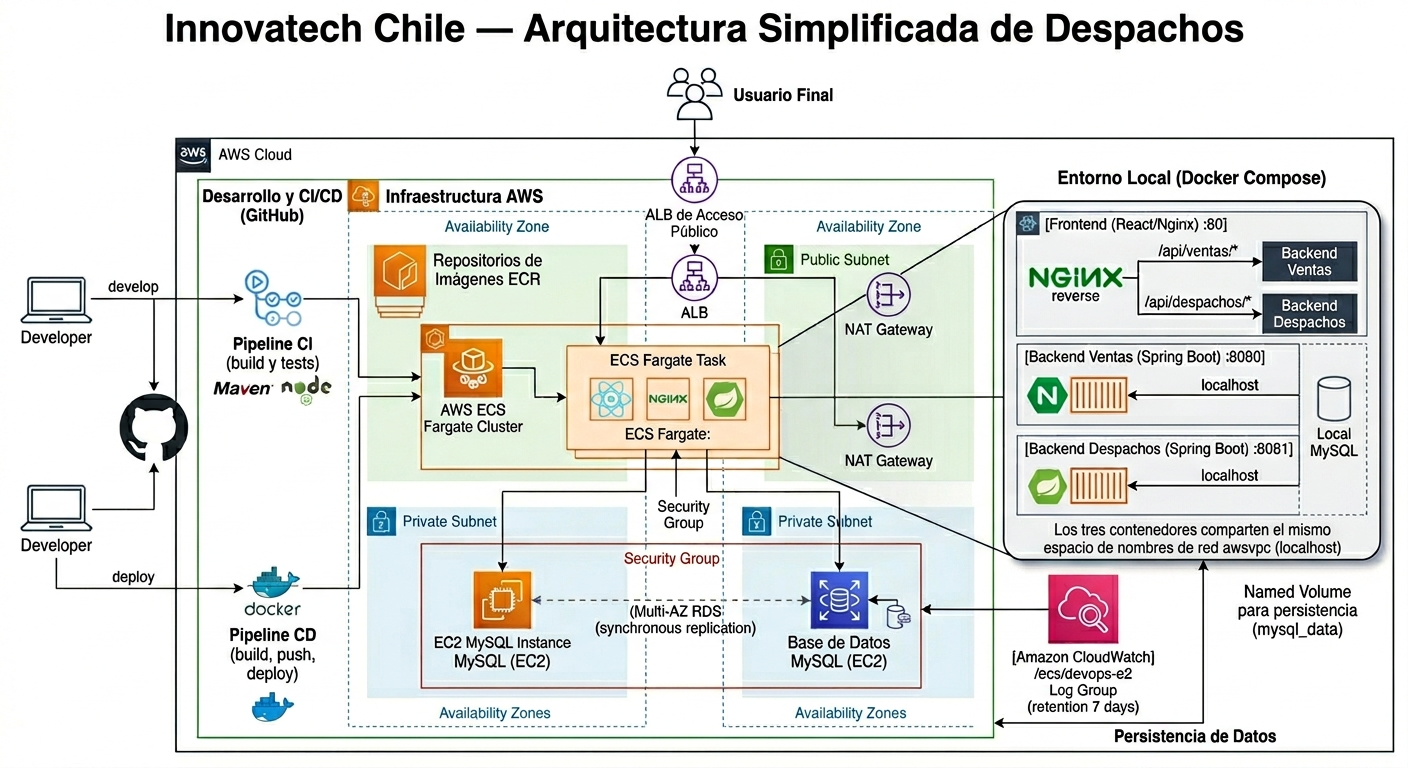
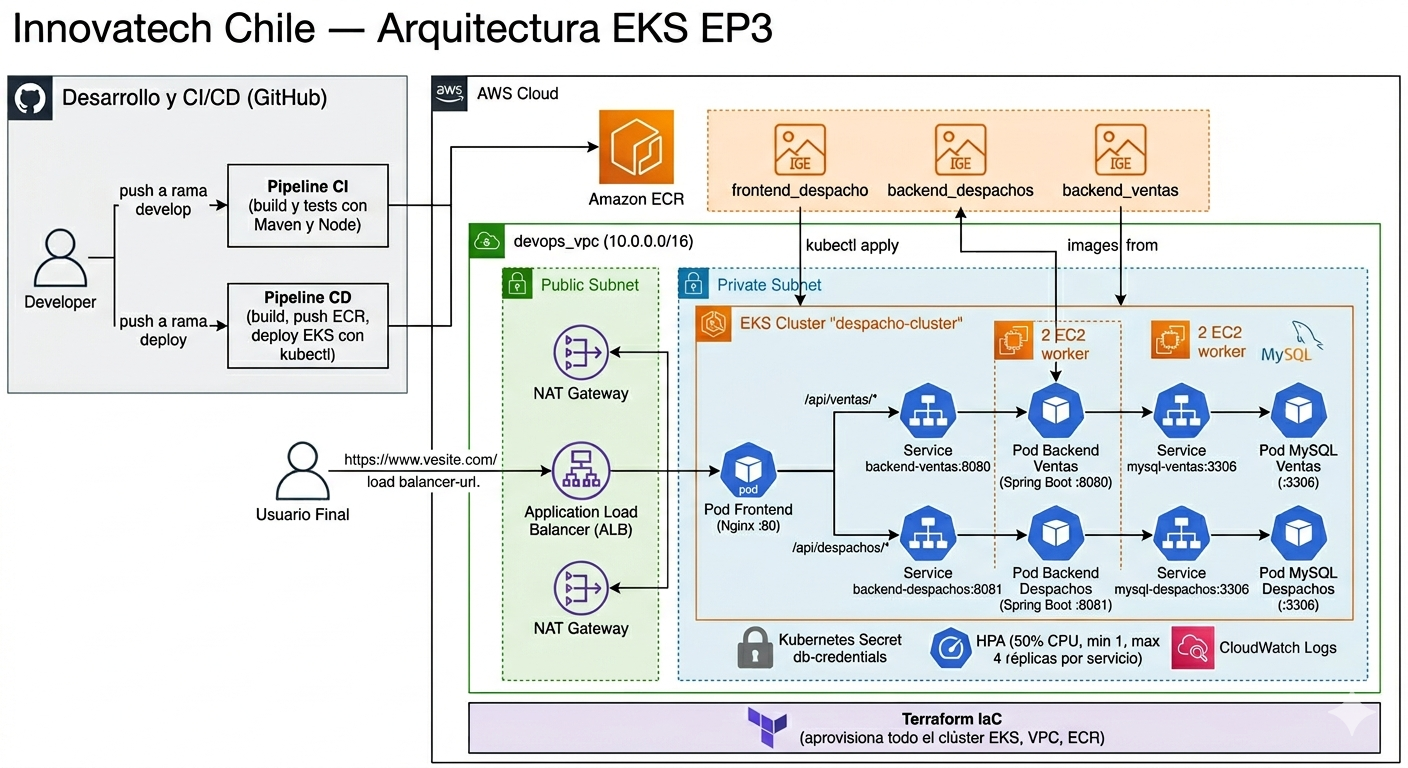
se pulen detalles

diff --git a/README.md b/README.md
@@ -11,7 +11,7 @@
 | Frontend | React + Vite + Tailwind CSS + Nginx |
 | Backend Ventas | Spring Boot 3 + Java 17 + JPA/Hibernate + Actuator |
 | Backend Despachos | Spring Boot 3 + Java 17 + JPA/Hibernate + Actuator |
-| Base de datos | MySQL 8 (EC2 en subred privada) |
+| Base de datos | MySQL 8 (Pod dentro del clúster EKS) |
 | Contenedorización | Docker + Docker Compose |
 | Infraestructura | AWS EKS + ECR + VPC — IaC con Terraform |
 | CI/CD | GitHub Actions |
@@ -24,11 +24,11 @@
 Proyecto_2_Devops/
 ├── .github/
 │   └── workflows/
-│       ├── ci.yml                     # Pipeline CI — build y tests 
-│       └── cd.yml                     # Pipeline CD — build, push ECR y deploy ECS
+│       ├── ci.yml                     # Pipeline CI — build y tests (rama develop)
+│       └── cd.yml                     # Pipeline CD — build, push ECR y deploy EKS (rama deploy)
 ├── front_despacho/                    # Frontend React (puerto 80)
 │   ├── Dockerfile
-│   └── nginx.conf                     # Proxy inverso hacia backends
+│   └── nginx.conf                     # Proxy inverso hacia backends vía Service K8s
 ├── back-Ventas_SpringBoot/
 │   └── Springboot-API-REST/           # Backend Ventas (puerto 8080)
 │       ├── Dockerfile
@@ -37,17 +37,25 @@ Proyecto_2_Devops/
 │   └── Springboot-API-REST-DESPACHO/  # Backend Despachos (puerto 8081)
 │       ├── Dockerfile
 │       └── entrypoint.sh
-├── infra/                             # Infraestructura como código (Terraform)
-│   ├── main.tf
-│   ├── vpc.tf
-│   ├── instances.tf
-│   ├── ecs.tf
-│   ├── task_app.tf
-│   ├── service.tf
-│   ├── security_groups.tf
-│   ├── ecr.tf
-│   ├── variables.tf
-│   └── outputs.tf
+├── infra/
+│   ├── k8s/                           # Manifiestos Kubernetes
+│   │   ├── frontend.yml
+│   │   ├── backend-ventas.yml
+│   │   ├── backend-despachos.yml
+│   │   ├── mysql-ventas.yml
+│   │   ├── mysql-despachos.yml
+│   │   ├── hpa.yml
+│   │   └── db-secret.yml              # Kubernetes Secret para credenciales DB
+│   └── terraform/                     # Infraestructura como código
+│       ├── main.tf
+│       ├── vpc.tf
+│       ├── eks.tf
+│       ├── ecr.tf
+│       ├── security_groups.tf
+│       ├── variables.tf
+│       └── outputs.tf
+├── secrets.yml                        # Documentación de secrets requeridos
+├── .env.example                       # Variables de entorno de referencia
 ├── docker-compose.yml                 # Stack completo para ejecución local
 └── README.md
 ```
@@ -56,17 +64,14 @@ Proyecto_2_Devops/
 
 ## Arquitectura AWS
 
-# Diagrama
-
 ![Diagrama de arquitectura AWS](./img-aws/diagramaDevops.png)
 
+Los tres microservicios corren como **Deployments independientes en EKS**, cada uno con su propio Service de Kubernetes. El Nginx del frontend actúa como proxy inverso usando DNS interno de Kubernetes:
 
-Los tres microservicios corren como **Deployments independientes en EKS**, cada uno con su propio Service de Kubernetes. El Nginx del frontend actúa como proxy inverso:
+- `/api/ventas/*` → Service `backend-ventas:8080` (ClusterIP)
+- `/api/despachos/*` → Service `backend-despachos:8081` (ClusterIP)
 
-- `/api/ventas/*` → `localhost:8080`
-- `/api/despachos/*` → `localhost:8081`
-
-MySQL corre en una EC2 dentro de la subred privada, accesible únicamente desde el Security Group de ECS.
+MySQL corre como pods dentro del clúster EKS en la subred privada, accesible únicamente desde los backends vía Service ClusterIP. Las credenciales se gestionan con Kubernetes Secrets (`db-credentials`).
 
 ---
 
@@ -75,10 +80,11 @@ MySQL corre en una EC2 dentro de la subred privada, accesible únicamente desde 
 - [Docker Desktop](https://www.docker.com/products/docker-desktop/)
 - [AWS CLI](https://aws.amazon.com/cli/)
 - [Terraform CLI >= 1.0](https://www.terraform.io/)
+- [kubectl](https://kubernetes.io/docs/tasks/tools/)
 - Git
 - [Node.js 20](https://nodejs.org/)
-- [JAVA 17](https://adoptium.net/)
-- [MAVEN 3.9+](https://maven.apache.org/)
+- [Java 17](https://adoptium.net/)
+- [Maven 3.9+](https://maven.apache.org/)
 
 ---
 
@@ -87,13 +93,13 @@ MySQL corre en una EC2 dentro de la subred privada, accesible únicamente desde 
 ### 1. Clonar el repositorio
 
 ```bash
-git clone <https://github.com/ScarthPz/Proyecto_2_Devops.git>
+git clone https://github.com/ScarthPz/Proyecto_2_Devops.git
 cd Proyecto_2_Devops
 ```
 
 ### 2. Configurar variables de entorno
 
-Crea un archivo `.env` en la raíz del proyecto:
+Crea un archivo `.env` en la raíz del proyecto (ver `.env.example`):
 
 ```env
 MYSQL_ROOT_PASSWORD=rootsecreto
@@ -111,7 +117,7 @@ docker compose up --build -d
 
 | Servicio | URL |
 |---|---|
-| Frontend | http://localhost:3000 |
+| Frontend | http://localhost:80 |
 | Backend Ventas | http://localhost:8080 |
 | Backend Despachos | http://localhost:8081 |
 | Swagger Ventas | http://localhost:8080/swagger-ui.html |
@@ -157,8 +163,6 @@ Los tests de contexto (`contextLoads`) verifican que el contexto de Spring Boot 
 Obtén los valores desde **AWS Academy → Start Lab → AWS Details → AWS CLI**:
 
 ```bash
-aws configure
-# O exportar directamente:
 export AWS_ACCESS_KEY_ID=...
 export AWS_SECRET_ACCESS_KEY=...
 export AWS_SESSION_TOKEN=...
@@ -166,7 +170,7 @@ export AWS_SESSION_TOKEN=...
 
 ### 2. Crear archivo de variables
 
-Dentro de la carpeta `infra/`, crea `terraform.tfvars` (ignorado por `.gitignore`):
+Dentro de la carpeta `infra/terraform/`, crea `terraform.tfvars` (ignorado por `.gitignore`):
 
 ```hcl
 db_password   = "tu_password"
@@ -176,7 +180,7 @@ key_pair_name = "nombre_de_tu_keypair"
 ### 3. Desplegar infraestructura
 
 ```bash
-cd infra
+cd infra/terraform
 terraform init
 terraform plan
 terraform apply
@@ -186,7 +190,6 @@ Esto crea:
 - VPC `devops_vpc` (10.0.0.0/16) con subredes pública y privada
 - NAT Gateway para salida de la subred privada
 - EKS Cluster `despacho-cluster` con node group administrado
-- Manifiestos K8s: Deployments, Services y HPA para los 3 microservicios
 - Repositorios ECR: `frontend_despacho`, `backend_ventas`, `backend_despachos`
 - Security Groups con acceso controlado
 - CloudWatch Log Group con retención de 7 días
@@ -230,14 +233,14 @@ Se ejecuta en cada push a `develop` y en pull requests. Verifica que el código 
 ```
 push/PR → develop
     │
-    ├── frontend-build   → npm install + npm run build
-    ├── backend-ventas-build   → mvn clean install
+    ├── frontend-build          → npm install + npm run build
+    ├── backend-ventas-build    → mvn clean install
     └── backend-despachos-build → mvn clean install
 ```
 
 ### CD — `cd.yml` (rama `deploy`)
 
-Se ejecuta solo cuando se hace push a `deploy`. Requiere que el CI haya pasado primero.
+Se ejecuta solo cuando se hace push a `deploy`.
 
 ```
 push → deploy
@@ -247,39 +250,38 @@ push → deploy
     │   ├── docker build + push backend-ventas → ECR
     │   └── docker build + push backend-despachos → ECR
     │
-    └── deploy
-        ├── kubectl apply db-secret.yml
-        ├── kubectl apply mysql / backend / frontend / hpa
-        ├── kubectl set image (actualiza con tag del commit)
-        ├── kubectl rollout status (espera confirmación)
+    ├── deploy
+    │   ├── kubectl apply db-secret.yml
+    │   ├── kubectl apply mysql / backend / frontend / hpa
+    │   ├── kubectl set image (actualiza con tag del commit SHA)
+    │   └── kubectl rollout status (espera confirmación de despliegue)
+    │
+    └── get-url
         └── kubectl get pods + get hpa + URL pública del LoadBalancer
 ```
 
 ### GitHub Secrets requeridos
 
-Configura estos secrets en **Settings → Secrets and variables → Actions**:
+Configura estos secrets en **Settings → Secrets and variables → Actions** (ver `secrets.yml`):
 
 | Secret | Descripción |
 |---|---|
-| `AWS_ACCESS_KEY_ID` | Access Key de AWS Academy |
-| `AWS_SECRET_ACCESS_KEY` | Secret Access Key de AWS Academy |
-| `AWS_SESSION_TOKEN` | Session Token de AWS Academy |
-| `ECR_REPO_FRONTEND` | `devops-e2-frontend` |
-| `ECR_REPO_BACKEND_VENTAS` | `devops-e2-backend-ventas` |
-| `ECR_REPO_BACKEND_DESPACHOS` | `devops-e2-backend-despachos` |
+| `AWS_ACCESS_KEY_ID` | Access Key temporal de AWS Academy |
+| `AWS_SECRET_ACCESS_KEY` | Secret Access Key temporal de AWS Academy |
+| `AWS_SESSION_TOKEN` | Session Token temporal de AWS Academy (requerido por STS) |
+| `ECR_REPO_FRONTEND` | URI del repositorio ECR para el frontend |
+| `ECR_REPO_BACKEND_VENTAS` | URI del repositorio ECR para backend ventas |
+| `ECR_REPO_BACKEND_DESPACHOS` | URI del repositorio ECR para backend despachos |
+
+> ⚠ Las credenciales AWS Academy expiran cada sesión. Actualiza los tres secrets `AWS_*` cada vez que inicies el Learner Lab.
 
 ---
 
 ## Persistencia de datos
 
-Los datos de MySQL se persisten mediante un **named volume** de Docker (`mysql_data`), montado en `/var/lib/mysql` dentro del contenedor, garantizando que la información no se pierda al reiniciar los contenedores.
+En entorno local, los datos de MySQL se persisten mediante **named volumes** de Docker (`mysql_data`), garantizando que la información no se pierda al reiniciar los contenedores.
 
-Se eligió **named volume** sobre bind mount porque:
-- Es gestionado completamente por Docker, sin depender de rutas absolutas del sistema host.
-- Es portable entre distintos sistemas operativos (Linux, Mac, Windows).
-- Facilita operaciones de backup mediante la API de volúmenes de Docker.
-
-En AWS, la base de datos corre en una EC2 con volumen EBS `gp3` de 30 GB.
+En AWS, MySQL corre como pods dentro del clúster EKS con volúmenes persistentes de Kubernetes.
 
 ---
 
@@ -292,7 +294,7 @@ En AWS, la base de datos corre en una EC2 con volumen EBS `gp3` de 30 GB.
 > ```
 > O al final del pipeline CD en el job `get-url`.
 
-### Backend Ventas — `http://<IP_PUBLICA>/api/ventas/`
+### Backend Ventas — `http://<URL_PUBLICA>/api/ventas/`
 
 | Método | Endpoint | Descripción |
 |---|---|---|
@@ -302,7 +304,7 @@ En AWS, la base de datos corre en una EC2 con volumen EBS `gp3` de 30 GB.
 | PUT | `/ventas/{id}` | Actualizar venta |
 | DELETE | `/ventas/{id}` | Eliminar venta |
 
-### Backend Despachos — `http://<IP_PUBLICA>/api/despachos/`
+### Backend Despachos — `http://<URL_PUBLICA>/api/despachos/`
 
 | Método | Endpoint | Descripción |
 |---|---|---|
@@ -316,8 +318,8 @@ En AWS, la base de datos corre en una EC2 con volumen EBS `gp3` de 30 GB.
 
 | Servicio | URL |
 |---|---|
-| Ventas | `http://<IP_PUBLICA>:8080/swagger-ui.html` |
-| Despachos | `http://<IP_PUBLICA>:8081/swagger-ui.html` |
+| Ventas | `http://<URL_PUBLICA>/api/ventas/swagger-ui.html` |
+| Despachos | `http://<URL_PUBLICA>/api/despachos/swagger-ui.html` |
 
 ---
 
@@ -327,11 +329,13 @@ En AWS, la base de datos corre en una EC2 con volumen EBS `gp3` de 30 GB.
 # 1. Iniciar lab en AWS Academy y actualizar los secrets en GitHub
 
 # 2. Clonar el repositorio
-git clone <https://github.com/ScarthPz/Proyecto_2_Devops.git>
+git clone https://github.com/ScarthPz/Proyecto_2_Devops.git
 cd Proyecto_2_Devops
 
 # 3. Configurar credenciales AWS
-aws configure
+export AWS_ACCESS_KEY_ID=...
+export AWS_SECRET_ACCESS_KEY=...
+export AWS_SESSION_TOKEN=...
 
 # 4. Recrear infraestructura EKS con Terraform
 cd infra/terraform
@@ -350,19 +354,19 @@ kubectl get service frontend
 
 ---
 
-##  Buenas prácticas aplicadas 
+## Buenas prácticas aplicadas
 
 - **Kubernetes Secrets** para credenciales de base de datos (`db-secret.yml`), evitando contraseñas hardcodeadas en los manifiestos.
 - **Multi-stage Dockerfiles** para imágenes limpias y de menor tamaño.
 - **Secretos gestionados** con GitHub Secrets y `terraform.tfvars` (en `.gitignore`), nunca en el código fuente.
 - **Infraestructura como código** con Terraform, reproducible en cualquier cuenta AWS Academy.
-- **Proxy inverso Nginx** que enruta ambos backends sin exponer puertos adicionales al exterior.
-- **Health checks** en los contenedores ECS usando Spring Boot Actuator (`/actuator/health/readiness`).
+- **Proxy inverso Nginx** que enruta ambos backends usando DNS interno de Kubernetes, sin exponer puertos adicionales al exterior.
+- **Health checks** con Spring Boot Actuator (`/actuator/health/readiness`).
 - **Logs centralizados** en CloudWatch con retención de 7 días.
 - **CI/CD separado** en dos pipelines: CI para validar código en `develop`, CD para desplegar desde `deploy`.
-- **Tests con perfil de base de datos en memoria** (H2) para no depender de MySQL en el entorno de CI.
-- **Named volumes** para persistencia de datos resiliente ante reinicios de contenedores.
+- **Tests con H2 en memoria** para no depender de MySQL en el entorno de CI.
+- **HPA configurado** en los tres servicios para escalar automáticamente ante picos de carga.
 
 ---
 
-© 2026 Innovatech Chile | Introducción a Herramientas DevOps  ᓚᘏᗢ
+© 2026 Innovatech Chile | Introducción a Herramientas DevOps ᓚᘏᗢ
